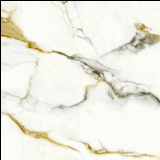
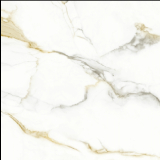
feat: stela carneiros

diff --git a/src/data/floors.ts b/src/data/floors.ts
@@ -2,6 +2,13 @@ export const floors = [
   //Stela ------------------------------------------------------------
   {
     brand: "stela",
+    reference: "Carneiros",
+    size: "46x46",
+    type: "Cerâmica",
+    img: "/floors/stela/carneiros.jpg",
+  },
+  {
+    brand: "stela",
     reference: "Búzios",
     size: "46x46",
     type: "Cerâmica",
